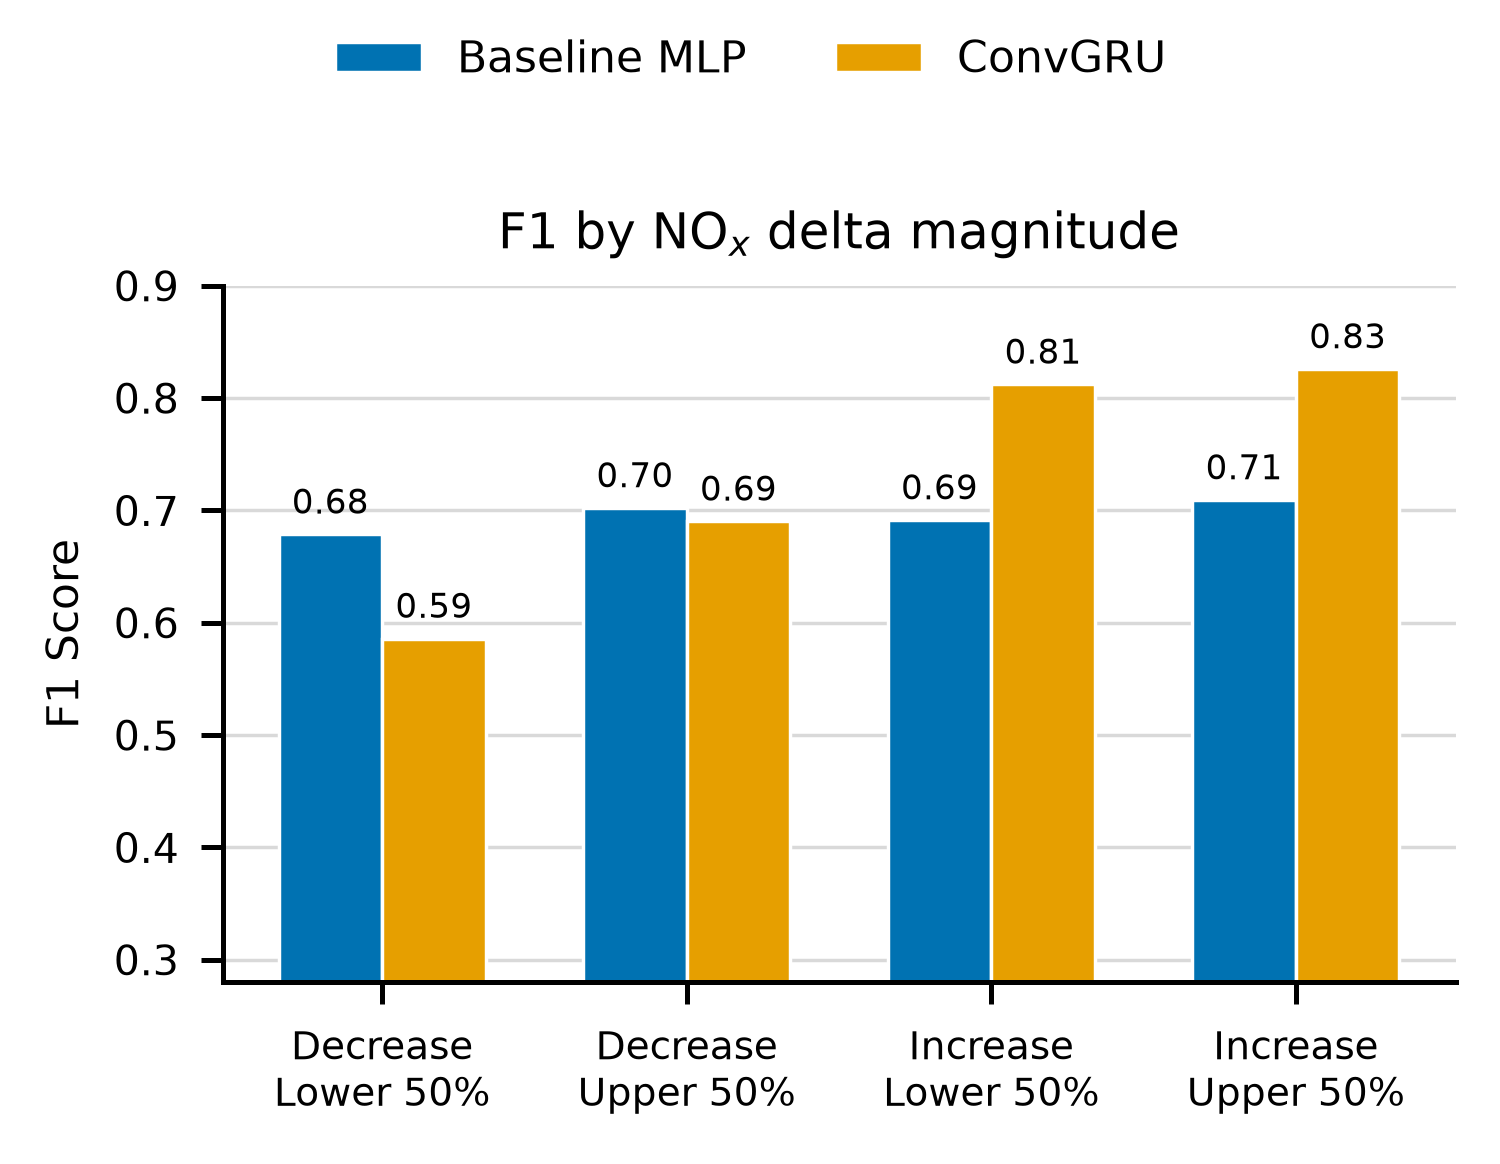
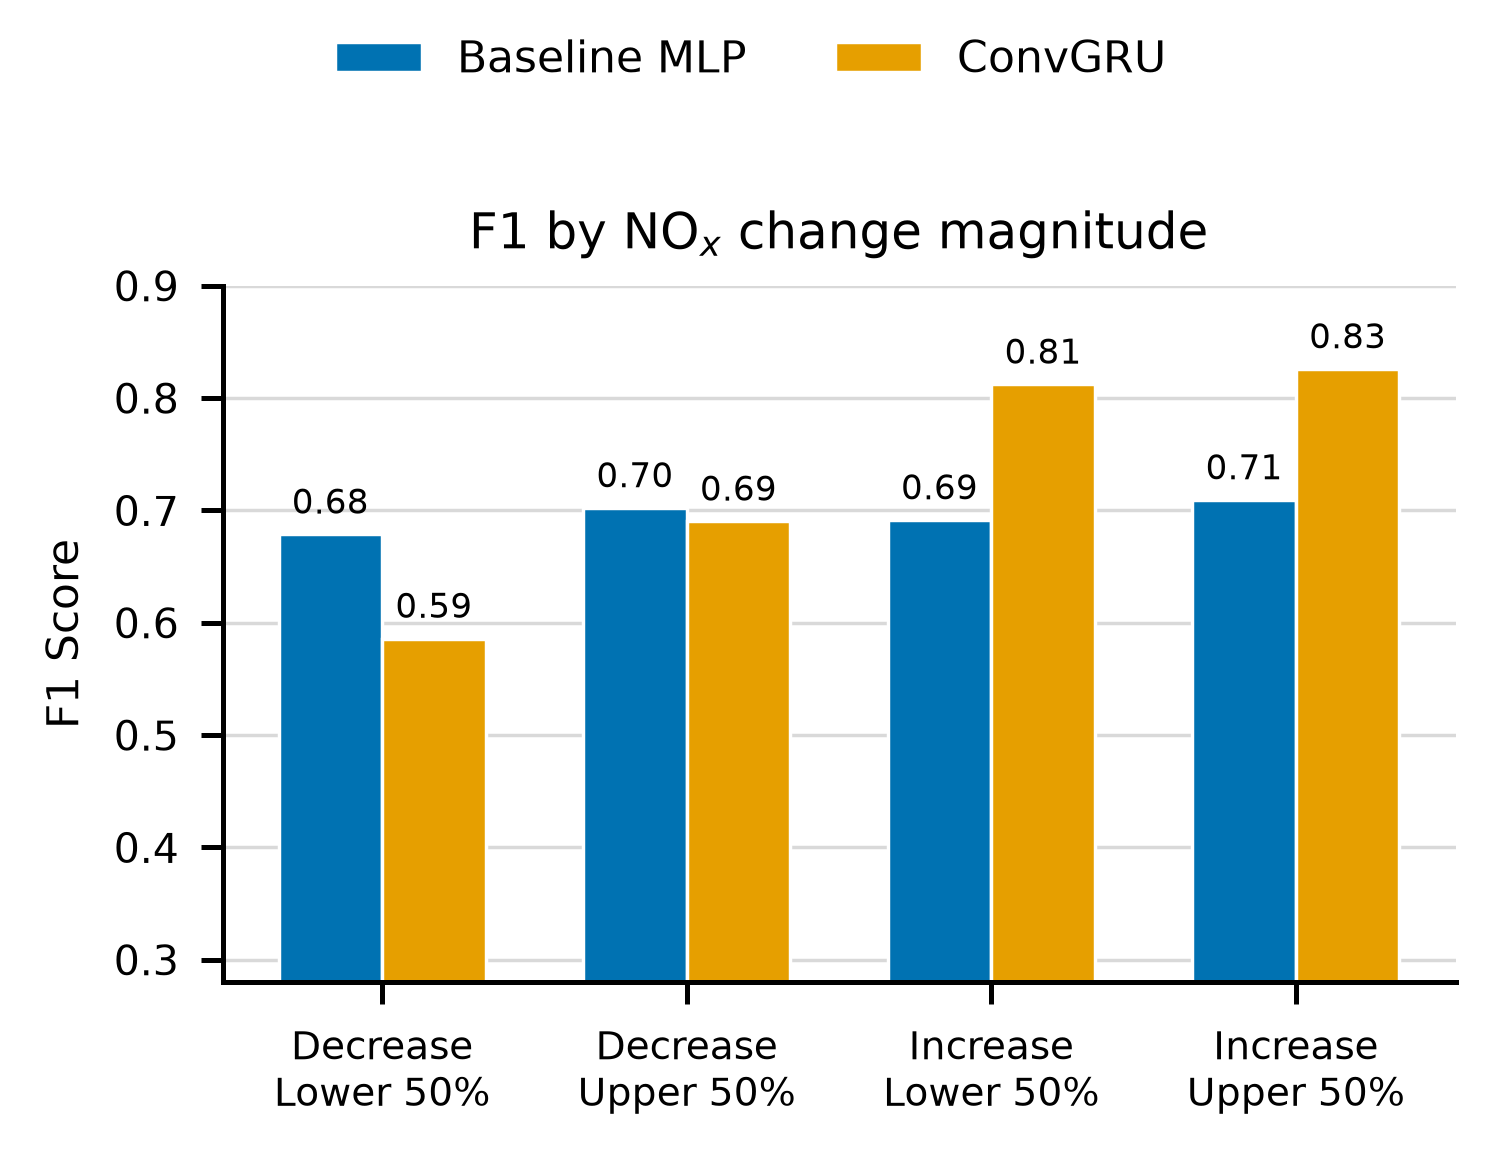
Rename NOx magnitude figure title

Changed region(s): [[0.3067, 0.1856, 0.7973, 0.2165]]

diff --git a/scripts/visuals/plot_stratified_performance.py b/scripts/visuals/plot_stratified_performance.py
@@ -382,7 +382,7 @@ def _save_change_magnitude_figure(frames: dict[str, pd.DataFrame]) -> None:
         axis,
         tick_labels,
         scores,
-        title=r"F1 by NO$_x$ delta magnitude",
+        title=r"F1 by NO$_x$ change magnitude",
         x_label="",
         y_label="F1 Score",
         y_limits=(0.28, 0.90),
